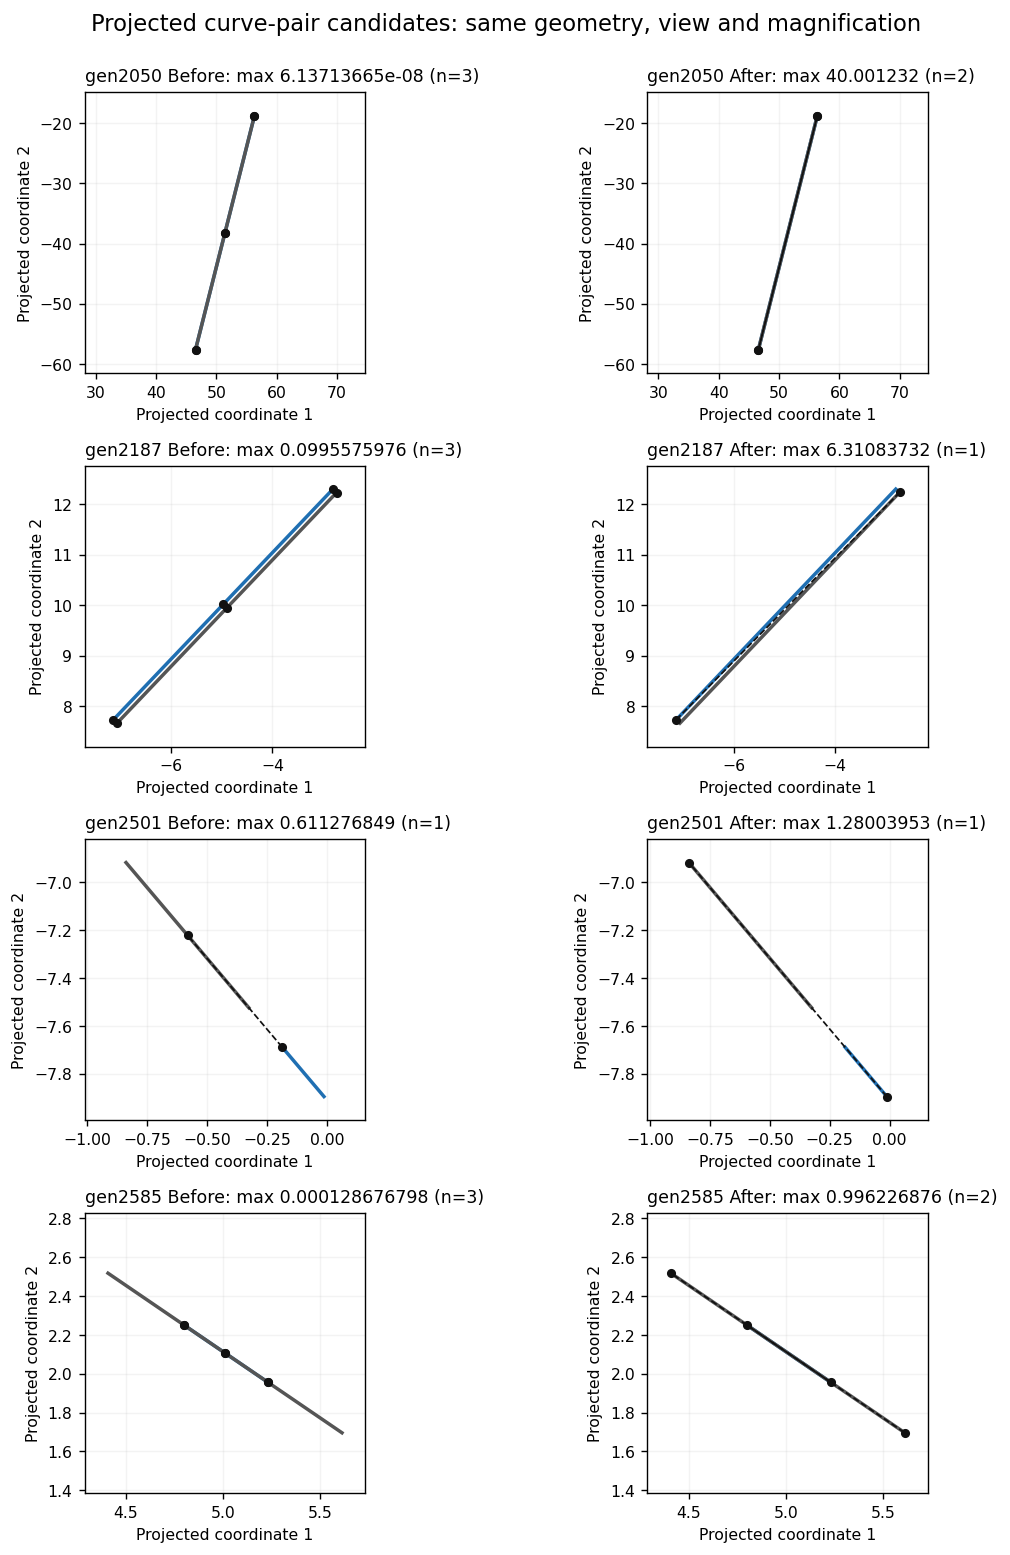
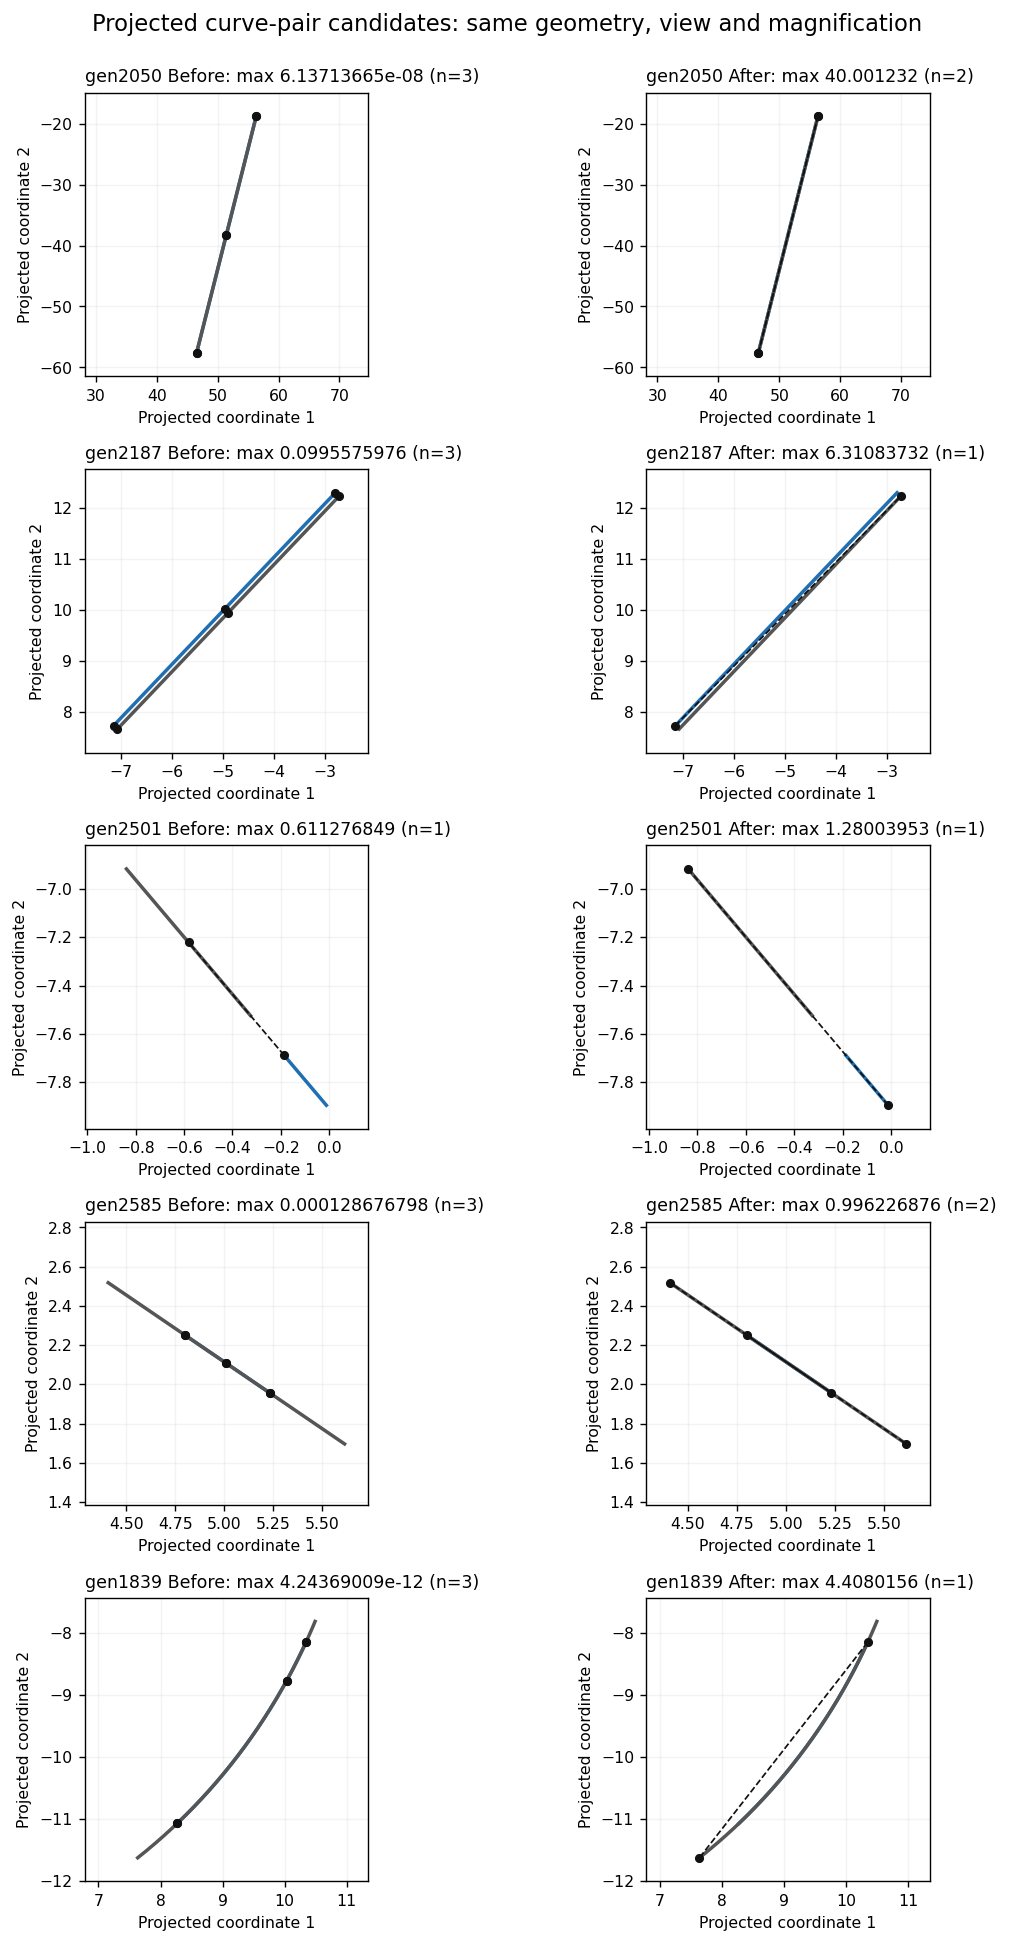
docs: record integrated monotone All replay and original witness repair
The final 75-row All replay changes eight records without new refusals. Preserve original gen1839 serialized input/output and same-view geometry; keep the ellipse and remaining unchanged All witnesses open.

diff --git a/plan/findings/diagnostics/plot_projected_pair_audit_3060.py b/plan/findings/diagnostics/plot_projected_pair_audit_3060.py
@@ -18,7 +18,8 @@ cases=[]
 for r in rows('projected_pair_single_after_3060.jsonl'):
  if r['unit']=='curve.curve_p9' and r['output']!=before[r['case']]['output']:
   cases.append((r,before[r['case']]['solutions']))
-for r in rows('projected_pair_affine_all_after_3060.jsonl'):cases.append((r,r['before_solutions']))
+for name in ['projected_pair_affine_all_after_3060.jsonl','projected_pair_monotone_all_after_3060.jsonl']:
+ for r in rows(name):cases.append((r,r['before_solutions']))
 plt.rcParams.update({'font.family':'DejaVu Sans','font.size':9})
 for page,start in enumerate(range(0,len(cases),6),1):
  group=cases[start:start+6];fig,axes=plt.subplots(len(group),2,figsize=(10,3.1*len(group)),squeeze=False)

diff --git a/plan/findings/curve.curve_p9--frozen-pair-audit-3060.md b/plan/findings/curve.curve_p9--frozen-pair-audit-3060.md
@@ -1,4 +1,4 @@
-# Frozen projected-pair audit at ab5107e26
+# Frozen projected-pair audit at ab5107e26 and 8948e0bc2
 
 This record audits the scoped Single and finite affine All construction. It does not claim to close #3060. Baseline is the parent implementation; all inputs are frozen and replayed unchanged. No tolerance, expected output or exclusion is changed by this evidence commit.
 
@@ -64,6 +64,26 @@ For gen2187 the other strict corner maximum is 6.300451372620962, outside slack 
 
 The distinct offset-circle compatibility fixture remains unchanged: two seam parameter representatives attain 4.5, the triangle-inequality bound 3 + 1 + 0.5.
 
+## Integrated identical-monotone All case
+
+The final 75-row replay at `8948e0bc2` has eight changes and no new refusals or
+decode errors. The sole additional change is original All `gen1839`:
+three old values at or below 4.243690092983992e-12 become one value
+4.408015599603469 at native parameters
+(0.43561427937496744, 0.034742159860404488).
+[Exact frozen input/output](diagnostics/projected_pair_monotone_all_after_3060.jsonl).
+The existing exact-rational derivative-numerator check proves the native
+coordinates monotone on the complete union span; increasing ordered parameter
+separation increases the projected distance, so the extreme feasible pair is
+global. The production interval sign proof agrees. This is the original All
+request, not a Single variant. The independent public-API test and unchanged
+offset-circle compatibility test pass among the 30 focused tests.
+
+The planned golden migration can remove the five repaired #3060 exclusions:
+gen0844, gen1839, gen2050, gen2187 and gen2585. gen0472 remains open in #3081.
+Final parent/main integration and broad validation remain prerequisites to that
+migration; unchanged, unverified All outputs are not blessed.
+
 ## Same-view geometry
 
 The curves below are independently evaluated from the stored definitions. Each row uses identical projection, limits and magnification before/after. Dashed segments join the returned pairs; markers identify the endpoints. Curve sampling is for rendering only and is not a certificate. Titles show maximum reported value and answer count; exact complete values are in the tables/data above.
@@ -84,7 +104,7 @@ The cylinder geometry and closed-form witness are drawn in the [original constru
 
 ## Remaining unchanged enumeration defects
 
-The 75-row All replay changes only the seven affine rows above. An independent witness search disproves at least one returned maximum in 46 **unchanged** rows. Exact inputs, old outputs and admissible larger-pair parameters are preserved in [the witness list](diagnostics/projected_pair_unchanged_all_witnesses_3060.jsonl). These belong to the existing incomplete curved enumeration scope of #3060; none is blessed or silently counted as repaired. gen1839 is the separately coordinated monotonicity follow-up; gen0472 belongs to #3081. A numerical larger witness disproves the returned maximum but does not identify the exact global maximum or prove identical internal root causes for every row.
+The initial 75-row All replay changes only the seven affine rows above; the final integrated replay additionally repairs gen1839 as recorded above. An independent witness search disproves at least one returned maximum in 46 **unchanged** rows. Exact inputs, old outputs and admissible larger-pair parameters are preserved in [the witness list](diagnostics/projected_pair_unchanged_all_witnesses_3060.jsonl). These belong to the existing incomplete curved enumeration scope of #3060; none is blessed or silently counted as repaired. The preserved initial list contains gen1839, subsequently repaired by the integrated monotonicity construction; 45 witnessed rows remain unchanged at 8948e0bc2. gen0472 belongs to #3081. A numerical larger witness disproves the returned maximum but does not identify the exact global maximum or prove identical internal root causes for every row.
 
 ## Reproduction
 
@@ -96,4 +116,4 @@ python plan/findings/diagnostics/check_projected_pair_affine_all_3060.py plan/fi
 python plan/findings/diagnostics/plot_projected_pair_audit_3060.py
 ```
 
-At this implementation, 22 focused tests and library/tests strict Clippy pass; Linux full formatting passes. Broad workspace gates and affected golden migration are recorded separately when complete.
+At ab5107e26, 22 focused tests and library/tests strict Clippy pass; at 8948e0bc2, 30 focused tests and library/tests strict Clippy pass; Linux full formatting passes. Broad workspace gates and affected golden migration are recorded separately when complete.
